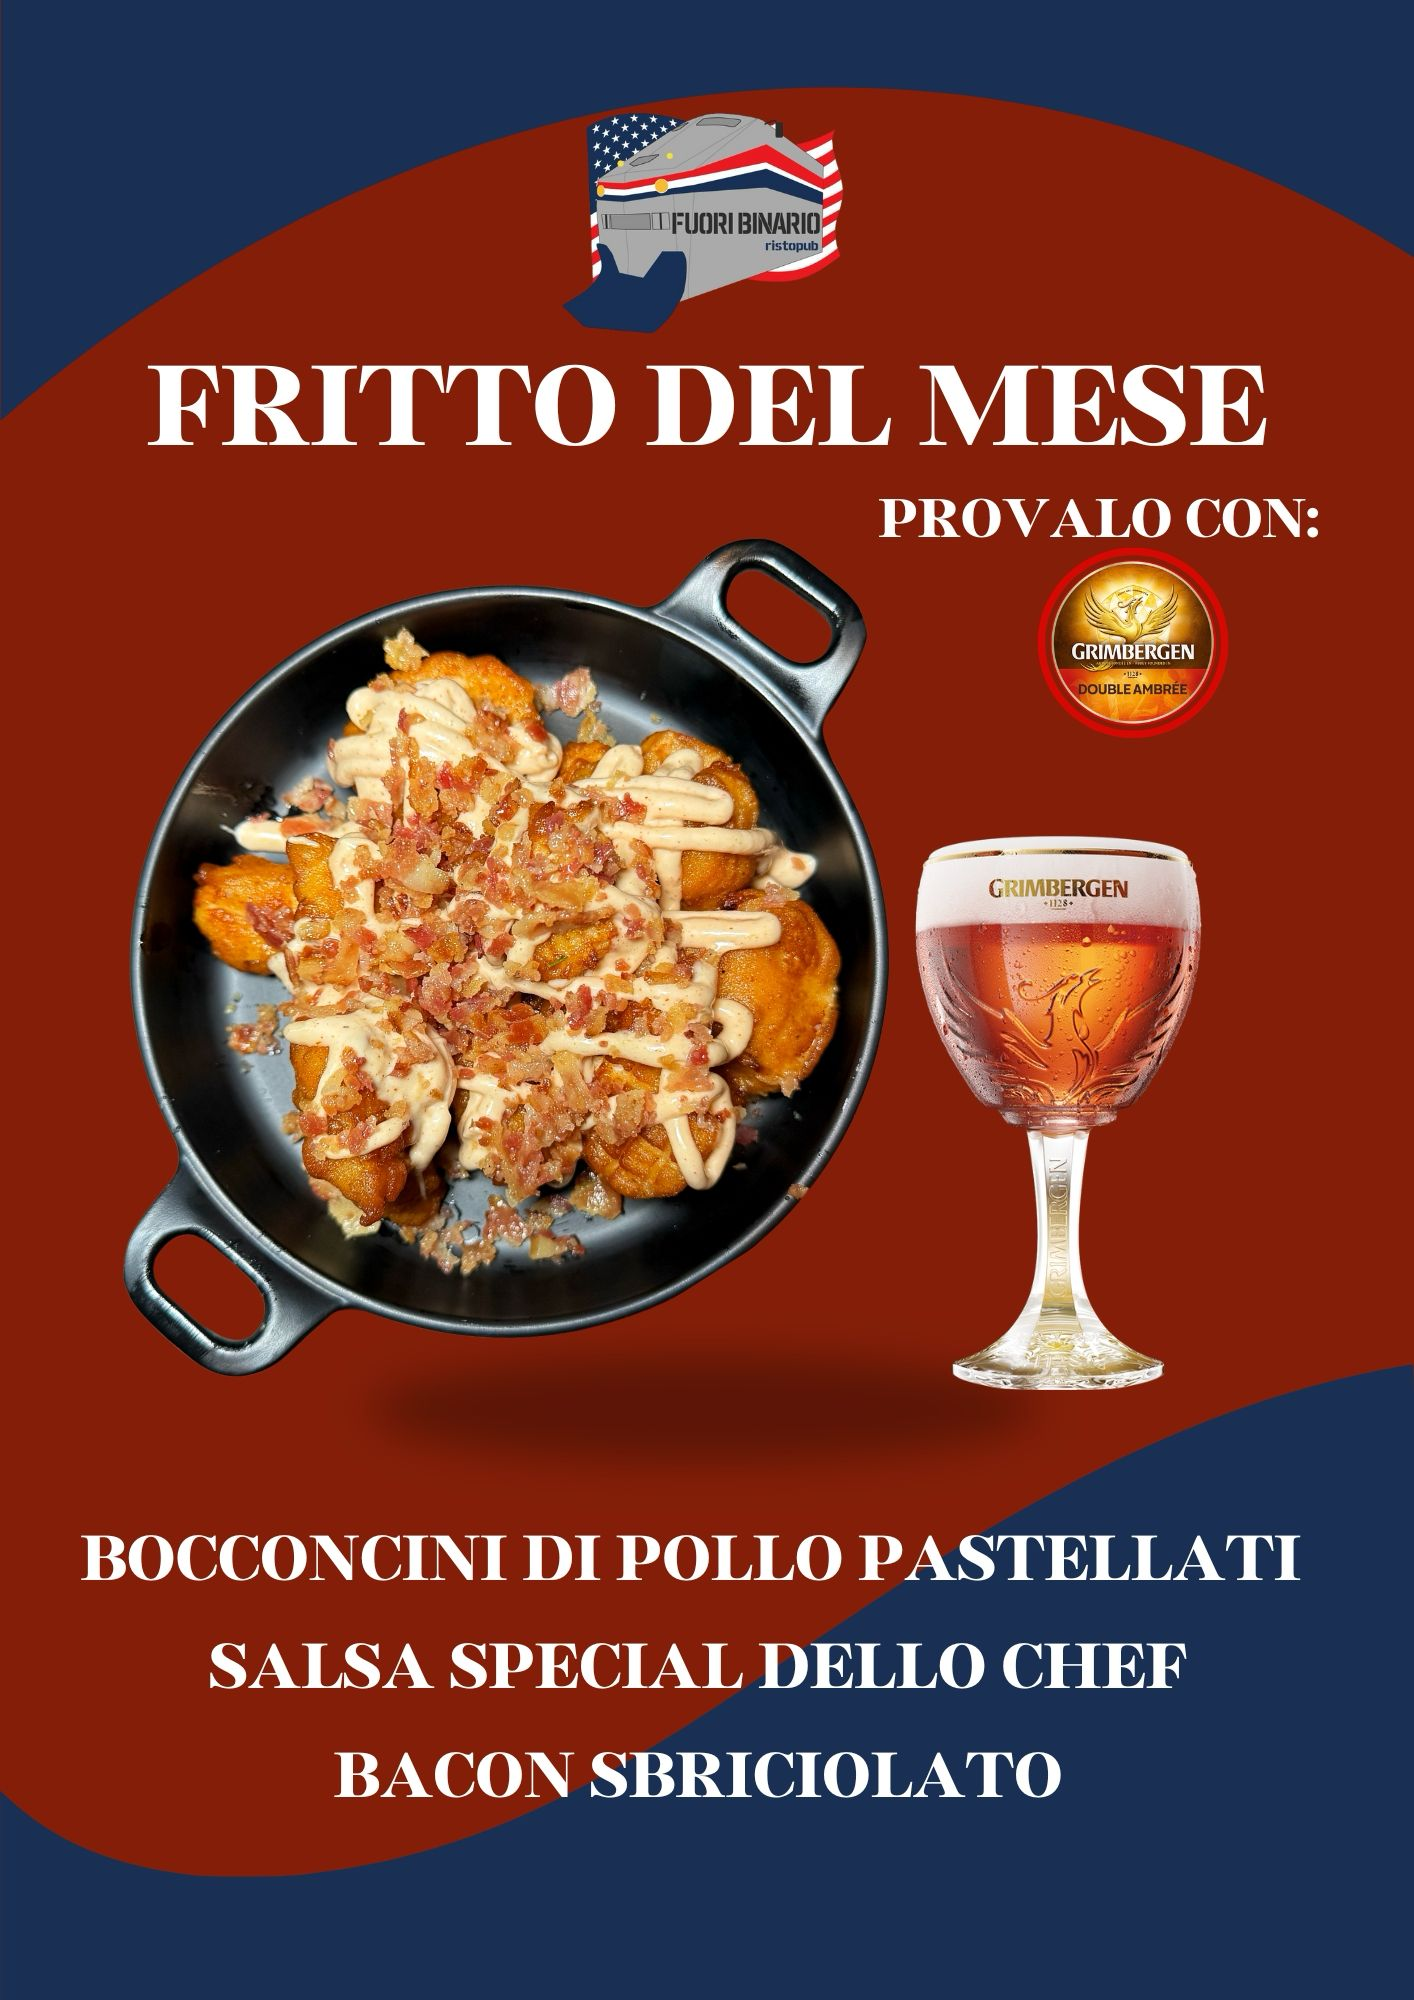
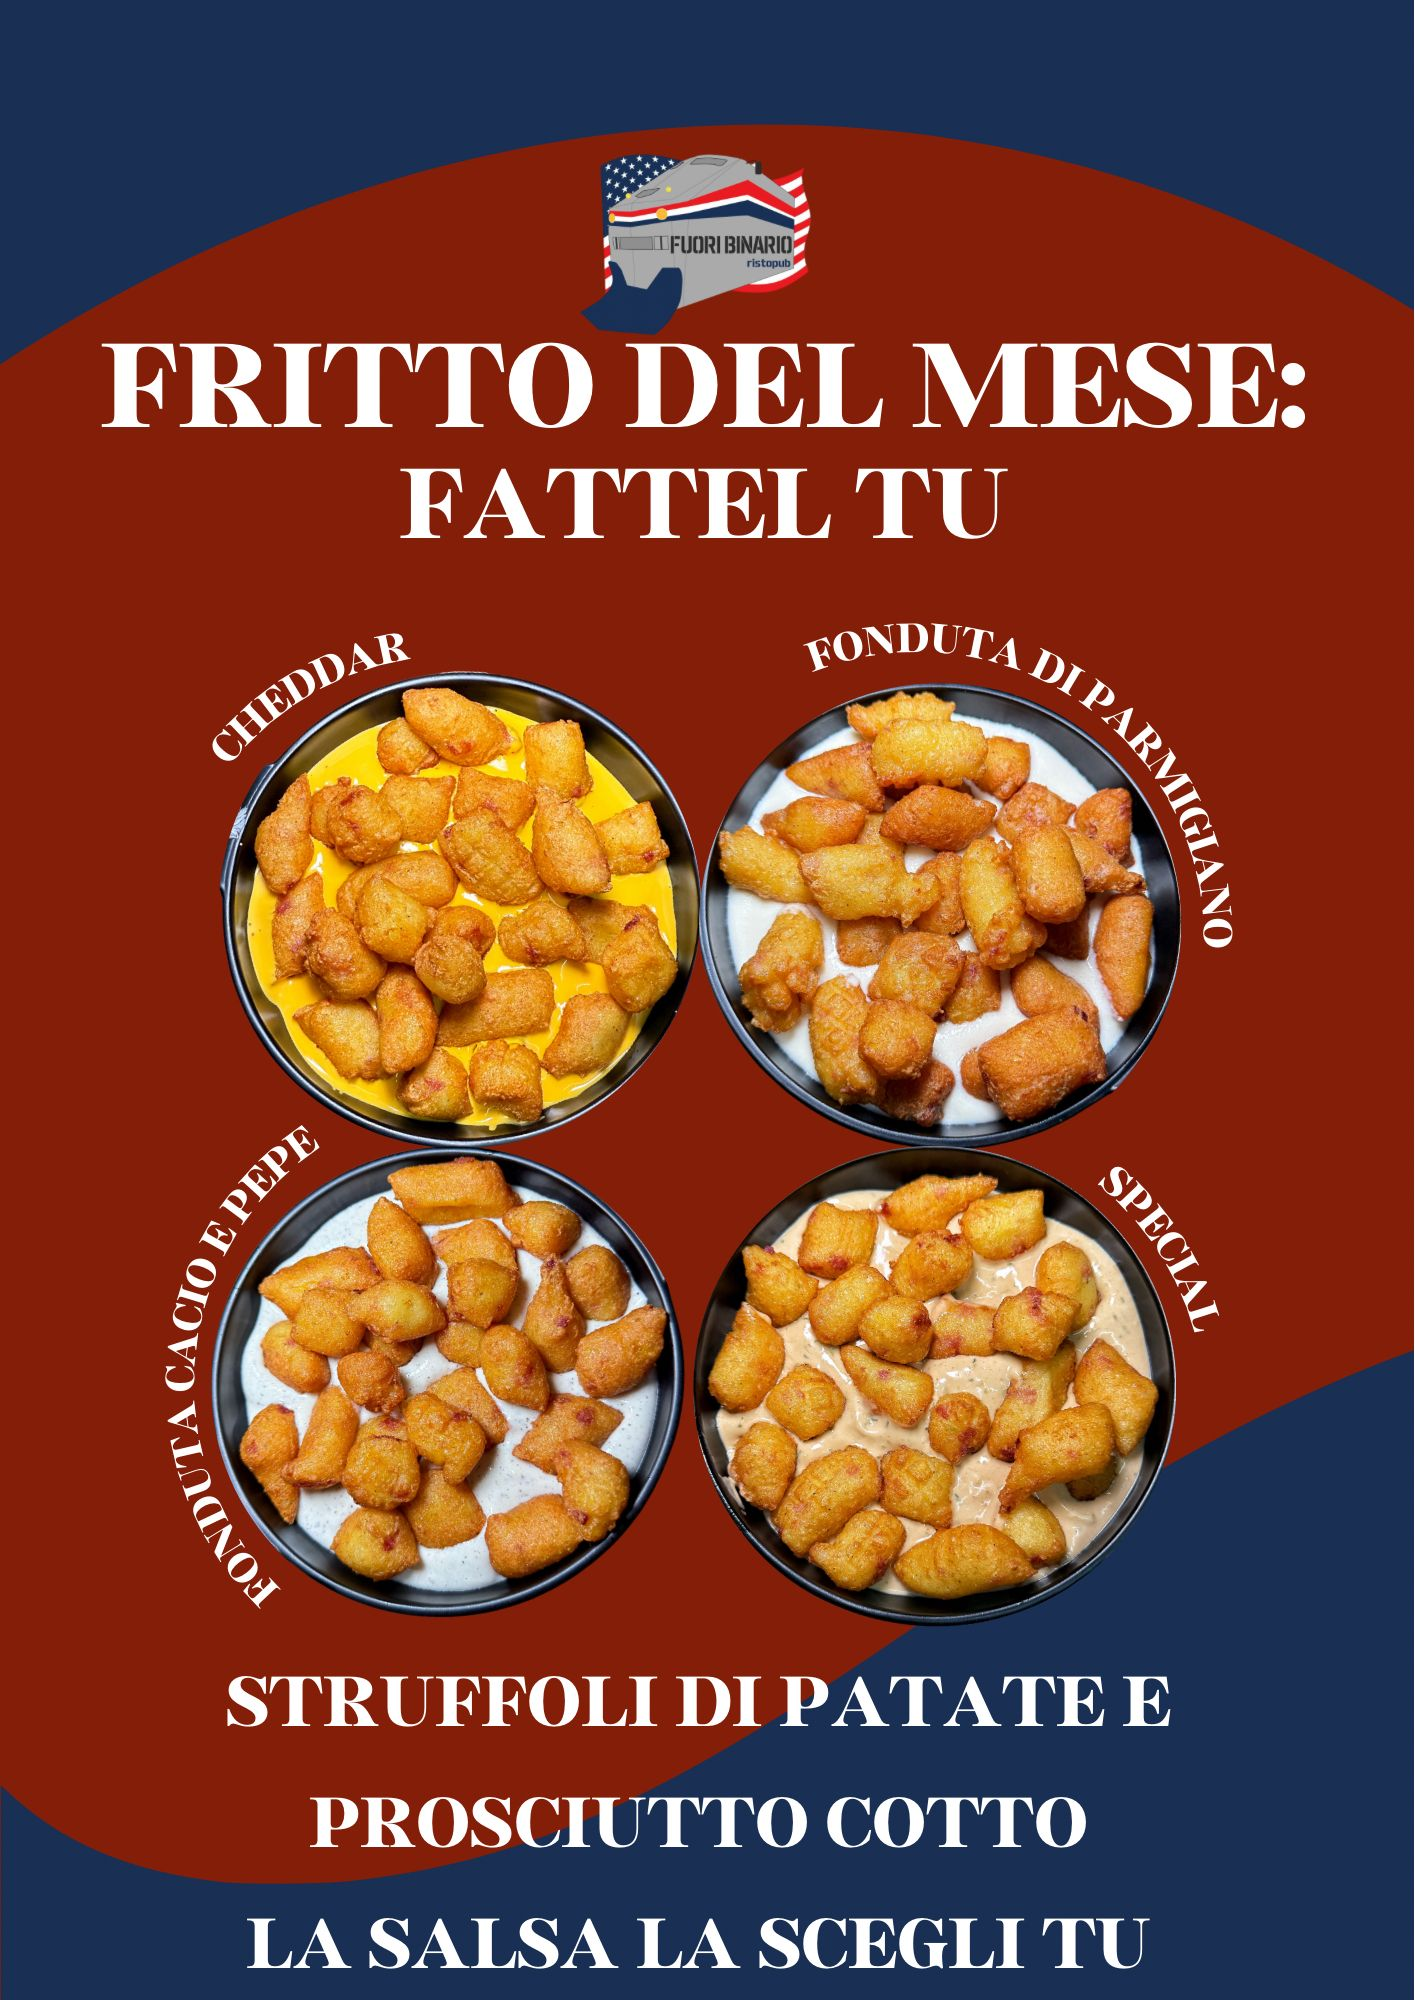
aggiunta mese

diff --git a/src/Page/Home.tsx b/src/Page/Home.tsx
@@ -49,25 +49,10 @@ function Home() {
             <div className={style.hiro}>
                 <div className={style.meseBox}>
                     <img src={PaninoDelMese} title="panino del mese" alt="foto panino del mese"/>
-                    <p>TORONTO</p>
                 </div>
-                <ul>
-                    <li>Hamburger di patate con cuore di pulled, </li>
-                    <li>Provola, </li>
-                    <li>Cipolla croccante, </li>
-                    <li>Crema di funghi, </li>
-                    <li>Fonduta di parmigiano</li>
-                    <li>Zeste di melanzane</li>
-                </ul>
     
-                <ul className={style.rotateHiro}>
-                    <li>Bocconcini di pollo pastellati, </li>
-                    <li>salsa speciale dello shef, </li>
-                    <li>bacon sbriciolato,</li>
-                </ul>
                 <div className={style.meseBox +" "+ style.rotateHiro}>
                     <img src={FritturaDelMese} title="frittura del mese" alt="foto frittura del mese"/>
-                    <p>Fritto del mese</p>
                 </div>
             </div>
             <h2>Menu</h2>

diff --git a/src/Page/stylepage/Home.module.css b/src/Page/stylepage/Home.module.css
@@ -5,12 +5,12 @@ h2{
 }
 
 .hiro{
-    display: grid;
-    grid-template-columns: 1fr 1fr;
+    /* display: grid;
+    grid-template-columns: 1fr 1fr; */
     padding: 1rem 1rem;
 } 
 
-.hiro ul {
+/* .hiro ul {
     width: 100%;
     list-style: none;
     background-color: white;
@@ -18,11 +18,11 @@ h2{
     display: inline-block;
     transform: rotate(-10deg) translateY(-40px);
     box-shadow: -10px 10px 10px -10px rgba(0,0,0,0.2);
-}
-ul.rotateHiro{
+} */
+/* ul.rotateHiro{
     transform: rotate(7deg);
 
-}
+} */
 
 .hiro ul li{
     display: inline;
